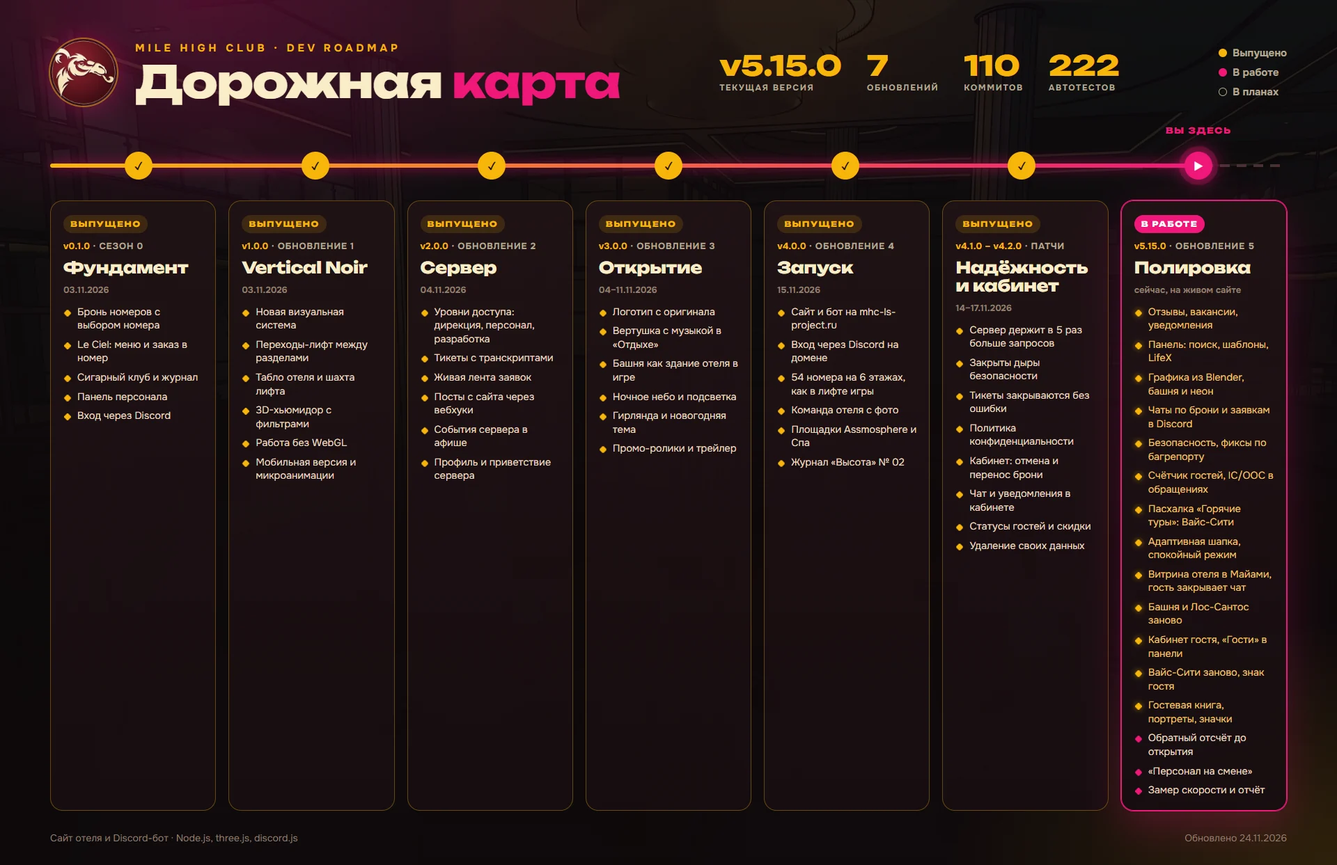
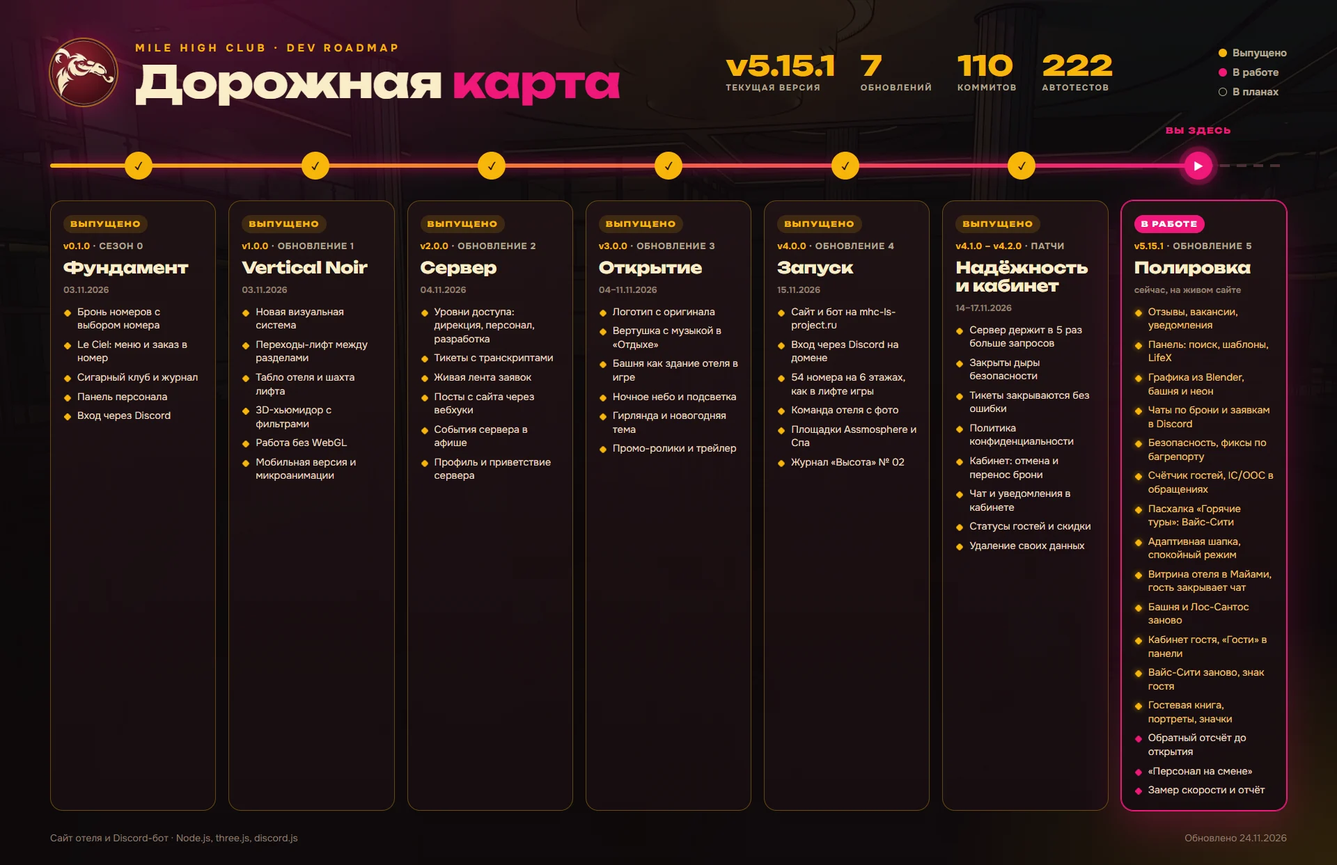
v5.15.1: в гостевой книге все, кто когда-либо жил в отеле

Changed region(s): [[0.5312, 0.0611, 0.8438, 0.1223], [0.875, 0.2751, 0.9375, 0.3057]]

diff --git a/public/js/main.js b/public/js/main.js
@@ -208,9 +208,9 @@ const flapPrev = new Map();
 // IC-подача: без упоминания Discord — «в отеле сейчас» и «в гостевой книге»
 function guestNote(g) { return `в гостевой книге ${g.total} ${plural(g.total, 'имя', 'имени', 'имён')}`; }
 function paintGuests() {
-  const g = S.pub?.guests, pill = $('#navGuests'); if (pill) { pill.hidden = !wOn('guests'); pill.classList.toggle('plain', !g); if (!g) { $('#navG').textContent = 'Гости'; pill.title = 'Гости отеля'; } } if (!g || !wOn('guests')) return;
+  const g = S.pub?.guests, pill = $('#navGuests'); if (pill) { pill.hidden = !wOn('guests'); pill.classList.toggle('plain', !g); if (!g) { $('#navG').textContent = 'Гости'; pill.title = 'Гостевая книга'; } } if (!g || !wOn('guests')) return;
   const n = $('#navG'), val = String(g.online); if (n && n.textContent !== val) { const had = /^\d/.test(n.textContent); n.textContent = val; if (had) { n.classList.remove('tick'); void n.offsetWidth; n.classList.add('tick'); } }
-  if (pill) pill.title = `${g.online} ${plural(g.online, 'гость', 'гостя', 'гостей')} в отеле прямо сейчас. Открыть список`;
+  if (pill) pill.title = `${g.online} ${plural(g.online, 'гость', 'гостя', 'гостей')} онлайн. Открыть гостевую книгу`;
   const v = $('#fbGv'); if (v) { v.innerHTML = flap('guests', val); $('#fbGs').textContent = guestNote(g); }
 }
 function flap(key, text) {
@@ -1101,7 +1101,7 @@ function meCard(p, u, st) {
       <div class="g2"><label class="field"><span>${mi('user')}Имя и фамилия</span><input id="pfName" value="${esc(p.name || '')}" maxlength="60" autocomplete="off"></label><label class="field"><span>${mi('phone')}Телефон</span><input id="pfPhone" value="${esc(p.phone || '')}" maxlength="20" autocomplete="off"></label></div>
       ${Object.entries(PREFS).map(([k, f]) => `<fieldset class="pf-set"><legend>${mi(k)}${f.label}</legend><div class="pf-opts"><label><input type="radio" name="pf_${k}" value="" ${pr[k] ? '' : 'checked'}><span>Не важно</span></label>${Object.entries(f.opts).map(([o, n]) => `<label><input type="radio" name="pf_${k}" value="${o}" ${pr[k] === o ? 'checked' : ''}><span>${n}</span></label>`).join('')}</div></fieldset>`).join('')}
       <fieldset class="pf-set"><legend>${mi('art')}Рисунок карты</legend><div class="art-opts">${[['', 'От отеля', artSafe(S.pub?.settings?.guestCard)], ['plain', 'Цвет статуса', ''], ...Object.entries(CARD_ART).map(([k, a]) => [k, a.label, artSafe(a.img)])].map(([k, n, u]) => `<label><input type="radio" name="pf_card" value="${k}" ${(p.card || '') === k ? 'checked' : ''}><span${u ? ` style="--art:url('${esc(u)}')"` : ''}>${n}</span></label>`).join('')}</div></fieldset>
-      <div class="g-pub"><label class="check"><input type="checkbox" id="pfPage" ${p.page ? 'checked' : ''} ${p.pageOff ? 'disabled' : ''}><span><b>Показывать мою страницу гостям</b><small>${p.pageOff ? 'Администрация скрыла страницу.' : 'Увидят имя, портрет, карту, статус, ночи и секреты. Номер комнаты, даты, телефон, пожелания и брони не видны никому из гостей.'}</small></span></label>${p.page && p.slug && !p.pageOff ? `<a class="btn sm ghost" href="#guest-${esc(p.slug)}">Открыть мою страницу</a>` : ''}</div>
+      <div class="g-pub"><label class="check"><input type="checkbox" id="pfPage" ${p.page ? 'checked' : ''} ${p.pageOff ? 'disabled' : ''}><span><b>Показывать мою страницу гостям</b><small>${p.pageOff ? 'Администрация скрыла страницу.' : 'Увидят имя, портрет, карту, статус, ночи и секреты. Номер комнаты, даты, телефон, пожелания и брони не видны никому из гостей.'}</small></span></label><label class="check"><input type="checkbox" id="pfBook" ${p.bookOff ? 'checked' : ''}><span><b>Не записывать меня в гостевую книгу</b><small>Иначе после выезда в книге останутся имя, статус и число ночей.</small></span></label>${p.page && p.slug && !p.pageOff ? `<a class="btn sm ghost" href="#guest-${esc(p.slug)}">Открыть мою страницу</a>` : ''}</div>
       <label class="field"><span>${mi('user')}О себе</span><input id="pfAbout" maxlength="160" value="${esc(p.about || '')}" placeholder="Пара слов для других гостей" autocomplete="off"></label>
       <label class="field"><span>${mi('note')}Ещё пожелания</span><textarea id="pfNote" maxlength="300" placeholder="Аллергия на лилии, высокий этаж, детская кровать…">${esc(p.note || '')}</textarea></label>
       <div><button class="btn sm">Сохранить карту</button></div></form></div>
@@ -1119,19 +1119,19 @@ let gq = '', gf = 'all', gList = null;
 async function renderGuests() {
   const v = view('guests'); if (!v.firstChild) v.innerHTML = '<div class="wrap sec"><div class="empty">Открываем гостевую книгу…</div></div>';
   try { gList = (await api('GET', '/guests')).guests; } catch (e) { v.innerHTML = `<div class="wrap sec"><div class="empty">${esc(e.message)}</div></div>`; return; }
-  if (current !== 'guests') return; const p = S.items?.profile || {}, g = S.pub?.guests;
+  if (current !== 'guests') return; const p = S.items?.profile || {};
   if (focusedIn(v)) { paintGuestList(); return; }
-  v.innerHTML = `<div class="wrap sec"><div class="head"><span class="eyebrow">Гостевая книга</span><h2>Гости отеля</h2><p>${g && wOn('guests') ? `Сейчас в отеле <b class="num">${g.online}</b> ${plural(g.online, 'гость', 'гостя', 'гостей')}. ` : ''}Здесь те, кто открыл свою страницу: загляните, кто живёт по соседству.</p></div>
-    <div class="row g-bar"><label class="field"><span class="sr">Поиск гостя</span><input id="gFind" type="search" placeholder="Имя гостя" value="${esc(gq)}"></label><div class="seg" role="group" aria-label="Кого показать">${[['all', 'Все'], ['staff', 'Персонал'], ['tier', 'Со статусом']].map(([k, n]) => `<button type="button" data-gf="${k}" aria-pressed="${gf === k}">${n}</button>`).join('')}</div></div>
-    ${!p.page ? `<a class="g-tip" href="#me" data-mytab><b>${mi('card')}Вас пока нет в книге</b><span>Откройте свою страницу в карте гостя, это один переключатель</span></a>` : ''}<div class="g-hall" id="gHall"></div></div>`;
+  v.innerHTML = `<div class="wrap sec"><div class="head"><span class="eyebrow">Гостевая книга</span><h2>Гости отеля</h2><p>Все, кто когда-либо останавливался в Mile High Club${gList.length ? `: <b class="num">${gList.length}</b> ${plural(gList.length, 'имя', 'имени', 'имён')}` : ''}. У тех, кто открыл свою страницу, можно заглянуть внутрь.</p></div>
+    <div class="row g-bar"><label class="field"><span class="sr">Поиск гостя</span><input id="gFind" type="search" placeholder="Имя гостя" value="${esc(gq)}"></label><div class="seg" role="group" aria-label="Кого показать">${[['all', 'Все'], ['page', 'С открытой страницей'], ['staff', 'Персонал'], ['tier', 'Со статусом']].map(([k, n]) => `<button type="button" data-gf="${k}" aria-pressed="${gf === k}">${n}</button>`).join('')}</div></div>
+    ${!p.page ? `<a class="g-tip" href="#me" data-mytab><b>${mi('card')}Ваша страница закрыта</b><span>Откройте её в карте гостя, чтобы показать портрет, карту и секреты</span></a>` : ''}<div class="g-hall" id="gHall"></div></div>`;
   v.querySelector('[data-mytab]')?.addEventListener('click', () => setMeTab('card'));
   $('#gFind').oninput = e => { gq = e.target.value; paintGuestList(); };
   $$('[data-gf]').forEach(b => b.onclick = () => { gf = b.dataset.gf; $$('[data-gf]').forEach(x => x.setAttribute('aria-pressed', x === b)); paintGuestList(); });
   paintGuestList();
 }
 function paintGuestList() {
-  const q = gq.trim().toLowerCase(), list = (gList || []).filter(g => (!q || g.name.toLowerCase().includes(q)) && (gf === 'all' || (gf === 'staff' ? g.staff : g.tier))), el = $('#gHall'); if (!el) return;
-  el.innerHTML = list.map(g => { const art = artUrl(g.card), e = emblem(g.achievements); return `<a class="g-p${g.staff ? ' s-' + g.staff : ''}" href="#guest-${esc(g.slug)}" data-sfx="soft"><span class="g-art"${art ? ` style="--art:url('${esc(art)}')"` : ''}></span>${g.avatar ? `<img class="g-ava" src="${esc(g.avatar)}" alt="" loading="lazy">` : `<span class="g-ava">${esc(g.name[0].toUpperCase())}</span>`}${e.lv ? `<span class="g-emb">${e.svg}</span>` : ''}<b>${esc(g.name)}${badges(g.staff, g.verified)}</b><small>${esc([STAFF_N[g.staff], g.tier || (g.staff ? '' : 'Гость'), g.nights ? `${g.nights} ${plural(g.nights, 'ночь', 'ночи', 'ночей')}` : ''].filter(Boolean).join(' · '))}</small>${g.about ? `<p>${esc(g.about)}</p>` : ''}</a>`; }).join('') || `<div class="empty">${gList?.length ? 'Никого не нашли.' : 'Пока никто не открыл свою страницу. Будьте первым.'}</div>`;
+  const q = gq.trim().toLowerCase(), list = (gList || []).filter(g => (!q || g.name.toLowerCase().includes(q)) && (gf === 'all' || (gf === 'staff' ? g.staff : gf === 'page' ? g.slug : g.tier))), el = $('#gHall'); if (!el) return;
+  el.innerHTML = list.map(g => { const art = artUrl(g.card), e = emblem(g.achievements); const tag = g.slug ? 'a' : 'div'; return `<${tag} class="g-p${g.staff ? ' s-' + g.staff : ''}"${g.slug ? ` href="#guest-${esc(g.slug)}" data-sfx="soft"` : ''}><span class="g-art"${art ? ` style="--art:url('${esc(art)}')"` : ''}></span>${g.avatar ? `<img class="g-ava" src="${esc(g.avatar)}" alt="" loading="lazy">` : `<span class="g-ava">${esc(g.name[0].toUpperCase())}</span>`}${e.lv ? `<span class="g-emb">${e.svg}</span>` : ''}<b>${esc(g.name)}${badges(g.staff, g.verified)}</b><small>${esc([STAFF_N[g.staff], g.tier || (g.staff ? '' : 'Гость'), g.nights ? `${g.nights} ${plural(g.nights, 'ночь', 'ночи', 'ночей')}` : ''].filter(Boolean).join(' · '))}</small>${g.about ? `<p>${esc(g.about)}</p>` : ''}</${tag}>`; }).join('') || `<div class="empty">${gList?.length ? 'Никого не нашли.' : 'Книга ещё пуста. Первые имена появятся после первых проживаний.'}</div>`;
 }
 async function renderGuest() {
   const v = view('guest'), id = S.param; if (v.dataset.id !== id) { v.innerHTML = '<div class="wrap sec"><div class="empty">Стучимся в номер…</div></div>'; v.dataset.id = id; }
@@ -1228,7 +1228,7 @@ function renderMe() {
   const F = $('#meProf');
   if (F) { F.oninput = e => { if (e.target.id !== 'avIn') F.dataset.dirty = '1'; };
     F.onsubmit = async e => { e.preventDefault(); const prefs = {}; Object.keys(PREFS).forEach(k => { const v = F.querySelector(`[name="pf_${k}"]:checked`)?.value; if (v) prefs[k] = v; });
-      try { await api('PUT', '/me/profile', { name: $('#pfName').value, phone: $('#pfPhone').value, note: $('#pfNote').value, about: $('#pfAbout').value, page: $('#pfPage').checked, prefs, card: F.querySelector('[name="pf_card"]:checked')?.value || '' }); delete F.dataset.dirty; play('soft'); reload('Карта гостя сохранена'); } catch (err) { fail(err); } };
+      try { await api('PUT', '/me/profile', { name: $('#pfName').value, phone: $('#pfPhone').value, note: $('#pfNote').value, about: $('#pfAbout').value, page: $('#pfPage').checked, bookOff: $('#pfBook').checked, prefs, card: F.querySelector('[name="pf_card"]:checked')?.value || '' }); delete F.dataset.dirty; play('soft'); reload('Карта гостя сохранена'); } catch (err) { fail(err); } };
     $('#avIn') && ($('#avIn').onchange = async e => { e.stopPropagation(); const f = e.target.files[0]; e.target.value = ''; if (!f) return; if (!/^image\/(jpeg|png|webp)$/.test(f.type) || f.size > 20e6) return toast('Подойдёт картинка JPG, PNG или WebP до 20 МБ', 'err');
       try { await uploadAvatar(f); play('success'); await reload('Портрет обновлён'); } catch (err) { fail(err); } });
     $('#avDel') && ($('#avDel').onclick = async () => { try { await api('DELETE', '/me/avatar'); play('soft'); await reload('Портрет убран'); } catch (err) { fail(err); } });

diff --git a/public/js/core.js b/public/js/core.js
@@ -204,6 +204,7 @@ export function createCore(store, hooks = {}) {
     const doc = { ...prev, id: o, name: str(body.name ?? prev.name, 60), phone: str(body.phone ?? prev.phone, 20), note: str(body.note ?? prev.note, 300), dm: body.dm === undefined ? prev.dm !== false : !!body.dm, updatedAt: Date.now() };
     if (body.prefs !== undefined) doc.prefs = cleanPrefs(body.prefs);
     if (body.about !== undefined) doc.about = str(body.about, 160);
+    if (body.bookOff !== undefined) doc.bookOff = !!body.bookOff;
     if (body.page !== undefined) { if (body.page && !String(doc.name || '').trim()) bad('Сначала впишите имя'); doc.page = !!body.page; if (doc.page && !doc.slug) doc.slug = uid('').slice(-10) + Math.random().toString(36).slice(2, 6); dirAt = 0; }
     if (body.card !== undefined) { const c = str(body.card, 20); doc.card = c === 'plain' || Object.hasOwn(CARD_ART, c) ? c : ''; }
     store.put('profiles', o, doc); dirAt = 0; return { profile: ownProfile(doc) };
@@ -264,9 +265,18 @@ export function createCore(store, hooks = {}) {
     if (!p?.page || p.pageOff || !p.slug || !String(p.name || '').trim()) return null; const st = guestStats(p.id);
     return { slug: p.slug, name: p.name, about: p.about || '', avatar: p.avatar || '', card: p.card || '', verified: verified(p.id), staff: staffRole(p.id), tier: st.tier?.name || '', nights: st.nights, stays: st.stays, achievements: p.achievements || [] };
   };
+  // гостевая книга: все, кто когда-либо останавливался. Только завершённые проживания — кто живёт сейчас, по книге не узнать
+  function guestBook() {
+    const pages = store.all('profiles').map(p => [p.id, pageOf(p)]).filter(x => x[1]), open = new Set(pages.map(x => x[0])), by = new Map();
+    store.all('bookings').filter(b => b.status === 'done').forEach(b => { const k = b.owner || 'n:' + String(b.name || '').trim().toLowerCase(), m = by.get(k) || { n: 0, nights: 0, name: '', at: 0 }; m.n++; m.nights += b.nights || 0; if ((b.createdAt || 0) >= m.at) { m.at = b.createdAt || 0; m.name = b.name; } by.set(k, m); });
+    store.all('profiles').forEach(p => { if (p.adj?.stays > 0 && !by.has(p.id)) by.set(p.id, { n: 0, nights: 0, name: p.name }); });
+    const lived = [...by].filter(([o]) => !open.has(o)).map(([o, m]) => { const p = profileOf(o), st = o.startsWith('n:') ? null : guestStats(o), name = String(p?.name || m.name || '').trim(); if (!name || p?.bookOff || p?.pageOff || (st && !st.stays)) return null;
+      return { slug: '', name, about: '', avatar: '', card: '', verified: verified(o), staff: staffRole(o), tier: st?.tier?.name || '', nights: st?.nights ?? m.nights, stays: st?.stays ?? m.n, achievements: [] }; }).filter(Boolean);
+    return [...pages.map(x => x[1]), ...lived];
+  }
   let dirAt = 0, dirList = [];
   on('GET', '/guests', () => {
-    if (Date.now() - dirAt > 5000) { dirList = store.all('profiles').map(pageOf).filter(Boolean).sort((a, b) => !!b.staff - !!a.staff || b.nights - a.nights || b.achievements.length - a.achievements.length || a.name.localeCompare(b.name, 'ru')).slice(0, 300); dirAt = Date.now(); }
+    if (Date.now() - dirAt > 5000) { dirList = guestBook().sort((a, b) => !!b.staff - !!a.staff || b.nights - a.nights || b.achievements.length - a.achievements.length || a.name.localeCompare(b.name, 'ru')).slice(0, 1000); dirAt = Date.now(); }
     return { guests: dirList };
   });
   on('GET', '/guests/:slug', ({ params }) => { const g = pageOf(store.all('profiles').find(p => p.slug && p.slug === str(params.slug, 30))); if (!g) throw new HttpError(404, 'Гость не открыл свою страницу'); return { guest: g }; });
@@ -389,7 +399,7 @@ export function createCore(store, hooks = {}) {
     for (const d of [...bookings.map(b => 'b:' + b.id), ...orders.map(o => 'o:' + o.id), ...tickets.map(t => 't:' + t.id)]) call('dropCard', d);
     const marks = [...bookings.map(b => b.code), ...tickets.map(t => `от ${t.discord}`), ...tickets.map(t => `обращение ${t.discord}`)].filter(x => x && x.length > 3);
     store.all('log').filter(l => marks.some(m => String(l.text).includes(m))).forEach(l => store.del('log', l.id));
-    owners.forEach(o => { const pr = profileOf(o); if (pr?.lifex?.avatar) call('removeUpload', pr.lifex.avatar); if (pr?.avatar) call('removeAvatar', pr.avatar); store.del('profiles', o); store.del('accounts', o); });
+    owners.forEach(o => { const pr = profileOf(o); if (pr?.lifex?.avatar) call('removeUpload', pr.lifex.avatar); if (pr?.avatar) call('removeAvatar', pr.avatar); store.del('profiles', o); store.del('accounts', o); }); dirAt = 0;
     emit(['bookings', 'orders', 'tickets', 'log', 'reviews']); if (rooms) roomsChanged();
     return { deleted: { bookings: bookings.length, orders: orders.length, tickets: tickets.length } };
   }

diff --git a/public/js/privacy.js b/public/js/privacy.js
@@ -1,6 +1,6 @@
 // Политика конфиденциальности. Текст описывает то, что сайт делает на самом деле (сверено с кодом сервера,
 // бота и страниц). Меняете сбор или хранение данных — поправьте и этот текст, и дату редакции.
-export const PRIVACY_DATE = '24 ноября 2026';
+export const PRIVACY_DATE = '25 ноября 2026';
 
 export const privacyHtml = () => `
 <span class="eyebrow">Документы</span>
@@ -34,6 +34,7 @@ export const privacyHtml = () => `
 <ul>
   <li><b>Карта гостя</b> (по желанию, в кабинете): имя персонажа, игровой телефон, предпочтения к проживанию (подушка, прохлада, напиток, сигары), рисунок карты, пожелания и настройка личных сообщений. Карта подставляется в формы брони, заказа и заявки, а предпочтения персонал видит рядом с бронью.</li>
   <li><b>Портрет</b> (по желанию, после входа): картинка, которую вы загрузили в кабинете. Перед отправкой она обрезается и сжимается в вашем браузере, служебные данные снимка не передаются. Портрет виден вам и персоналу, а если вы открыли страницу гостя, то и другим посетителям. Администрация может снять портрет, нарушающий правила, указать причину и временно отключить загрузку. Об этом придёт уведомление на сайте и в личные сообщения, если они включены. Снятая или заменённая картинка удаляется с сервера.</li>
+  <li><b>Гостевая книга</b>: после завершённого проживания в открытом списке гостей остаются имя персонажа, знак подтверждённого гостя или персонала, статус, число ночей и проживаний. Текущие проживания в неё не попадают. Отказаться можно в кабинете: «Не записывать меня в гостевую книгу».</li>
   <li><b>Страница гостя</b> (выключена, пока вы сами её не откроете): другим посетителям видны имя персонажа, портрет, рисунок карты, строка «О себе», знак подтверждённого гостя или персонала, статус, число ночей и проживаний и найденные секреты. Номер комнаты и её тип, даты проживания, телефон, пожелания, брони, Discord и переписка не показываются никому из гостей. В вашем кабинете номер комнаты скрыт, пока вы сами его не откроете. Страницу можно закрыть в любой момент, администрация может скрыть её за нарушения.</li>
   <li><b>Просьбы к отелю</b> (уборка, полотенца, будильник, машина, багаж, поздний выезд, «Не беспокоить»): что попросили, к какому времени и что ответил отель. Хранятся внутри брони.</li>
   <li><b>Поправки администрации</b>: администратор может исправить данные карты, число ночей и проживаний, присвоить статус гостя, отметить секреты отеля и оставить служебную заметку о проживании. Заметку видит только персонал.</li>

diff --git a/docs/roadmap/roadmap.html b/docs/roadmap/roadmap.html
@@ -58,7 +58,7 @@ li.ok::before{background:var(--gold)}
 <div class="bgimg"></div><div class="glow"></div>
 <div class="wrap">
 <header><img src="../../public/img/emblem.webp" alt=""><div><div class="eb">Mile High Club · dev roadmap</div><h1>Дорожная <span>карта</span></h1></div>
-<div class="stats"><div><span class="big" data-current>v5.15.0</span><small>текущая версия</small></div><div><span class="big">7</span><small>обновлений</small></div><div><span class="big">110</span><small>коммитов</small></div><div><span class="big">222</span><small>автотестов</small></div></div>
+<div class="stats"><div><span class="big" data-current>v5.15.1</span><small>текущая версия</small></div><div><span class="big">7</span><small>обновлений</small></div><div><span class="big">110</span><small>коммитов</small></div><div><span class="big">222</span><small>автотестов</small></div></div>
 <div class="legend"><span><i style="background:var(--gold)"></i>Выпущено</span><span><i style="background:var(--pink)"></i>В работе</span><span><i style="border:1.5px solid var(--mut)"></i>В планах</span></div></header>
 
 <div class="track"><div class="rail"></div><div class="prog" style="--p:92.86"></div>
@@ -83,7 +83,7 @@ li.ok::before{background:var(--gold)}
 <div class="c done"><span class="tag">ВЫПУЩЕНО</span><div class="ver"><b>v4.1.0 – v4.2.0</b> · ПАТЧИ</div><h2>Надёжность и кабинет</h2><div class="date">14–17.11.2026</div><ul>
 <li>Сервер держит в 5 раз больше запросов</li><li>Закрыты дыры безопасности</li><li>Тикеты закрываются без ошибки</li><li>Политика конфиденциальности</li><li>Кабинет: отмена и перенос брони</li><li>Чат и уведомления в кабинете</li><li>Статусы гостей и скидки</li><li>Удаление своих данных</li></ul></div>
 
-<div class="c now"><span class="tag">В РАБОТЕ</span><div class="ver"><b data-current>v5.15.0</b> · ОБНОВЛЕНИЕ 5</div><h2>Полировка</h2><div class="date">сейчас, на живом сайте</div><ul>
+<div class="c now"><span class="tag">В РАБОТЕ</span><div class="ver"><b data-current>v5.15.1</b> · ОБНОВЛЕНИЕ 5</div><h2>Полировка</h2><div class="date">сейчас, на живом сайте</div><ul>
 <li class="ok">Отзывы, вакансии, уведомления</li><li class="ok">Панель: поиск, шаблоны, LifeX</li><li class="ok">Графика из Blender, башня и неон</li><li class="ok">Чаты по брони и заявкам в Discord</li><li class="ok">Безопасность, фиксы по багрепорту</li><li class="ok">Счётчик гостей, IC/OOC в обращениях</li><li class="ok">Пасхалка «Горячие туры»: Вайс-Сити</li><li class="ok">Адаптивная шапка, спокойный режим</li><li class="ok">Витрина отеля в Майами, гость закрывает чат</li><li class="ok">Башня и Лос-Сантос заново</li><li class="ok">Кабинет гостя, «Гости» в панели</li><li class="ok">Вайс-Сити заново, знак гостя</li><li class="ok">Гостевая книга, портреты, значки</li><li>Обратный отсчёт до открытия</li><li>«Персонал на смене»</li><li>Замер скорости и отчёт</li></ul></div>
 </div></div>
 <div class="foot"><span>Сайт отеля и Discord-бот · Node.js, three.js, discord.js</span><span>Обновлено 24.11.2026</span></div>

diff --git a/public/css/app.css b/public/css/app.css
@@ -1504,7 +1504,7 @@ body:has(.fab.on) footer{padding-bottom:4.6rem}body:has(.fab.on) #achs{bottom:5.
 .g-bar{justify-content:space-between;margin-bottom:1.2rem}.g-bar .field{width:min(100%,20rem)}
 .g-hall{display:grid;grid-template-columns:repeat(auto-fill,minmax(min(100%,15rem),1fr));gap:1rem;margin-top:1.2rem}.g-hall .empty{grid-column:1/-1}
 .g-p{position:relative;display:grid;justify-items:start;gap:.2rem;padding:0 1rem 1.1rem;border:1px solid var(--line);border-radius:var(--r);background:var(--card);color:inherit;text-decoration:none;overflow:hidden;transition:transform .25s,border-color .25s}
-.g-p:hover,.g-p:focus-visible{transform:translateY(-3px);border-color:var(--gold)}.g-p.s-admin{border-color:color-mix(in srgb,var(--pink) 50%,var(--line))}.g-p.s-mod{border-color:color-mix(in srgb,#35c9b8 50%,var(--line))}
+a.g-p:hover,a.g-p:focus-visible{transform:translateY(-3px);border-color:var(--gold)}.g-p.s-admin{border-color:color-mix(in srgb,var(--pink) 50%,var(--line))}.g-p.s-mod{border-color:color-mix(in srgb,#35c9b8 50%,var(--line))}
 .g-art{width:calc(100% + 2rem);height:5.2rem;margin:0 -1rem -2.1rem;background:linear-gradient(180deg,rgba(10,5,14,.1),var(--card)),var(--art,linear-gradient(120deg,#3a1d42,#1d1024 60%,#3b1726)) center/cover}
 .g-ava{position:relative;width:4rem;height:4rem;border-radius:50%;object-fit:cover;border:3px solid var(--card);background:var(--bg2);display:grid;place-items:center;font:800 1.5rem var(--display);color:var(--gold);margin-bottom:.3rem}.g-emb{position:absolute;right:.9rem;top:3.4rem}
 .g-p b{font-size:1.05rem;overflow-wrap:anywhere}.g-p small{color:var(--mut);font-size:.82rem}.g-p p{margin:.4rem 0 0;font-size:.86rem;color:var(--mut);overflow-wrap:anywhere}

diff --git a/README.md b/README.md
@@ -6,7 +6,7 @@
 
 **Сайт отеля над Лос-Сантосом и Discord-бот для GTA RP**
 
-Текущая версия: **<!--ver-->v5.15.0<!--/ver-->**
+Текущая версия: **<!--ver-->v5.15.1<!--/ver-->**
 
 Бронь номеров на 3D-башне · Le Ciel и заказ в номер · сигарный клуб · журнал · обращения с тикетами в Discord · панель персонала
 
@@ -20,7 +20,7 @@
 
 **v5.15.0 · Гости отеля · 24.11.2026**
 
-- **Гостевая книга:** пилюля гостей в шапке открывает список. Страница гостя выключена, пока он сам её не откроет: имя, портрет, карта, статус, ночи и секреты.
+- **Гостевая книга:** все, кто когда-либо жил в отеле, без живущих сейчас. Открывается пилюлей гостей в шапке, от записи можно отказаться. Страница гостя выключена, пока он сам её не откроет: имя, портрет, карта, статус, ночи и секреты.
 - **Портрет гостя** с обрезкой в браузере. Администрация снимает портрет с причиной, гость получает уведомление.
 - **Значки:** администрация, модерация, подтверждённый гость. Знак коллекционера растёт с каждым найденным секретом.
 - **Номер комнаты конфиденциален:** на страницах гостей его нет, в кабинете он скрыт до нажатия «Показать номер».

diff --git a/CHANGELOG.md b/CHANGELOG.md
@@ -7,6 +7,7 @@
 Номер версии хранится в `package.json` и виден на сайте (подвал) и в панели персонала. Новая версия — `npm run release -- patch|minor|major "Название"`.
 
 <!--versions-->
+- **v5.15.1** · 24.11.2026 · Гостевая книга: все, кто когда-либо жил
 - **v5.15.0** · 24.11.2026 · Гостевая книга, портреты, значки, скрытый номер
 - **v5.14.0** · 24.11.2026 · Вайс-Сити заново, знак подтверждённого гостя
 - **v5.13.0** · 24.11.2026 · Башня и Лос-Сантос заново, кабинет гостя, раздел «Гости»
